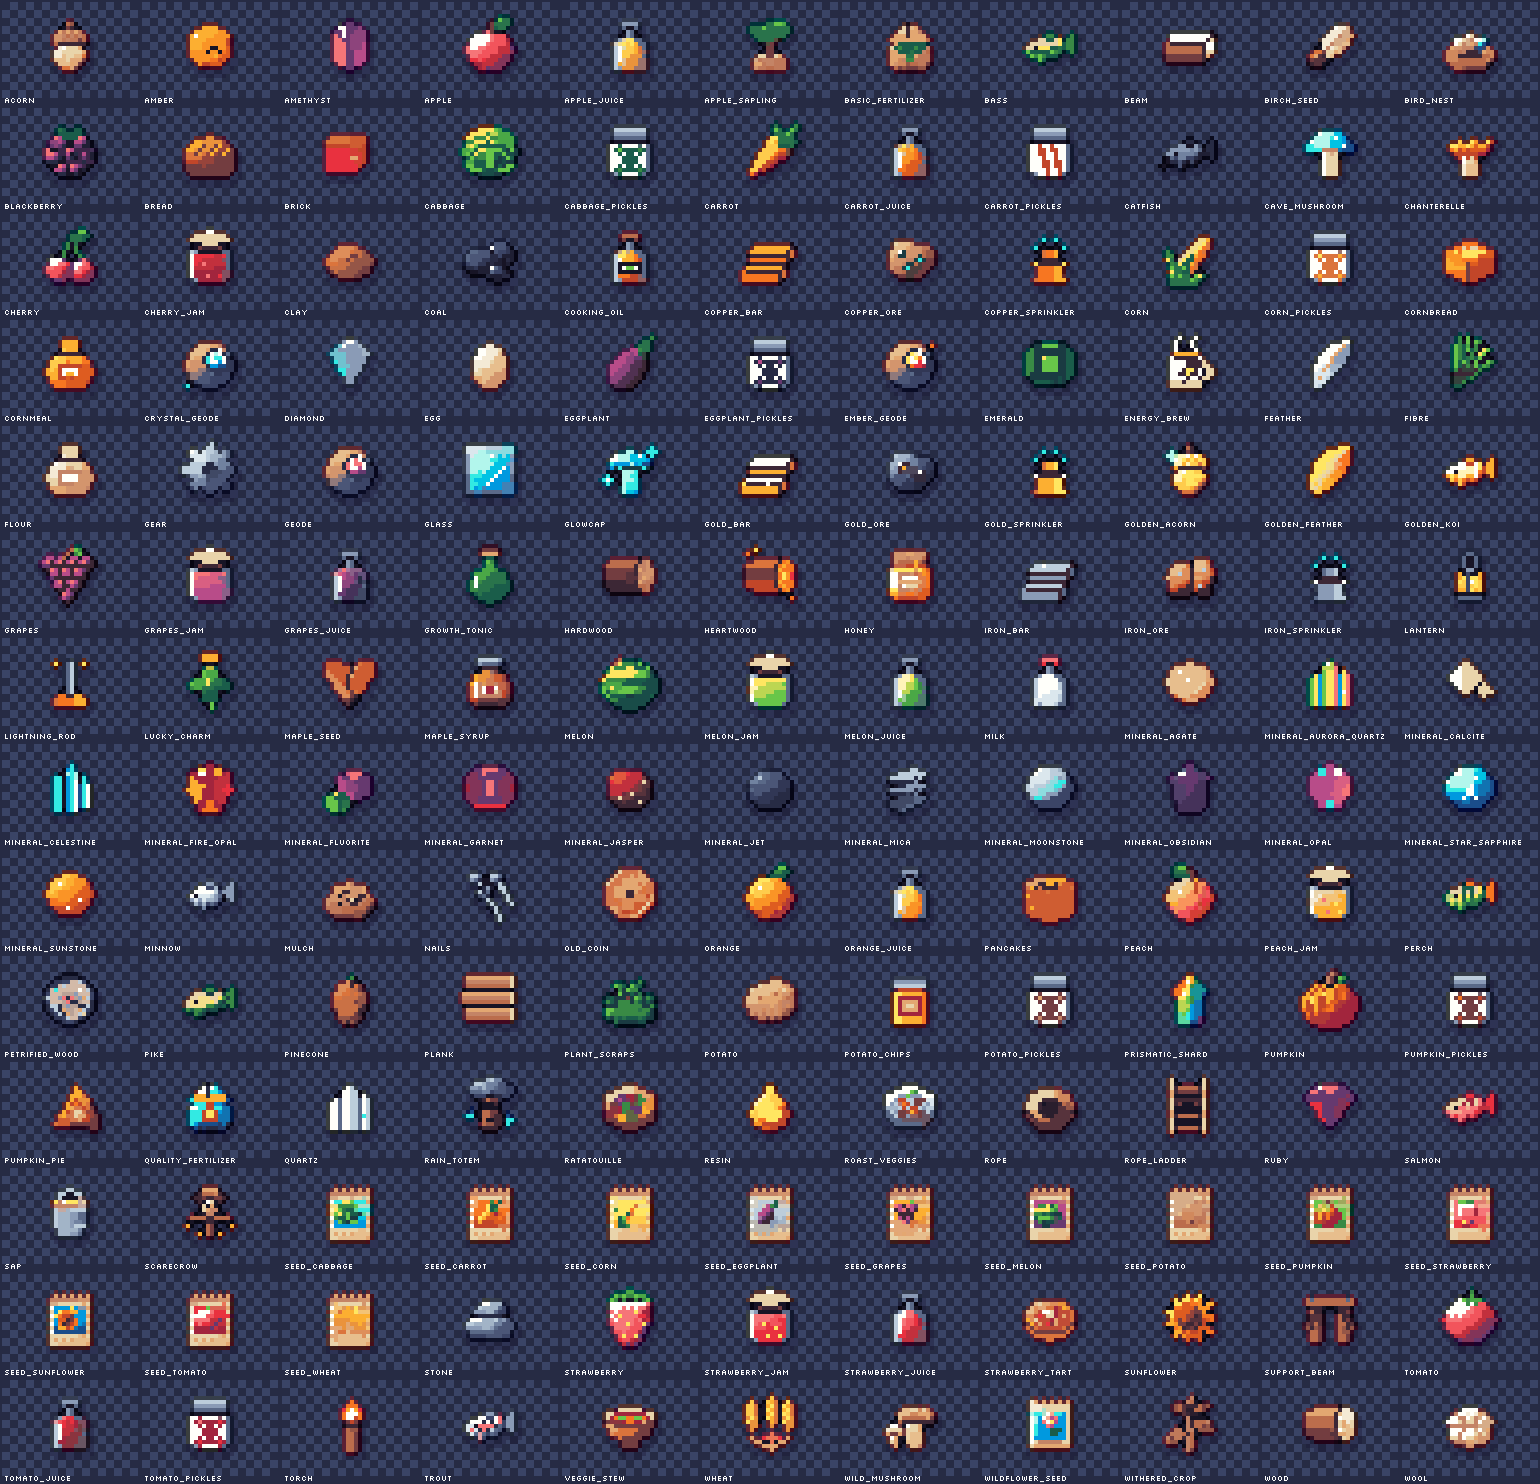
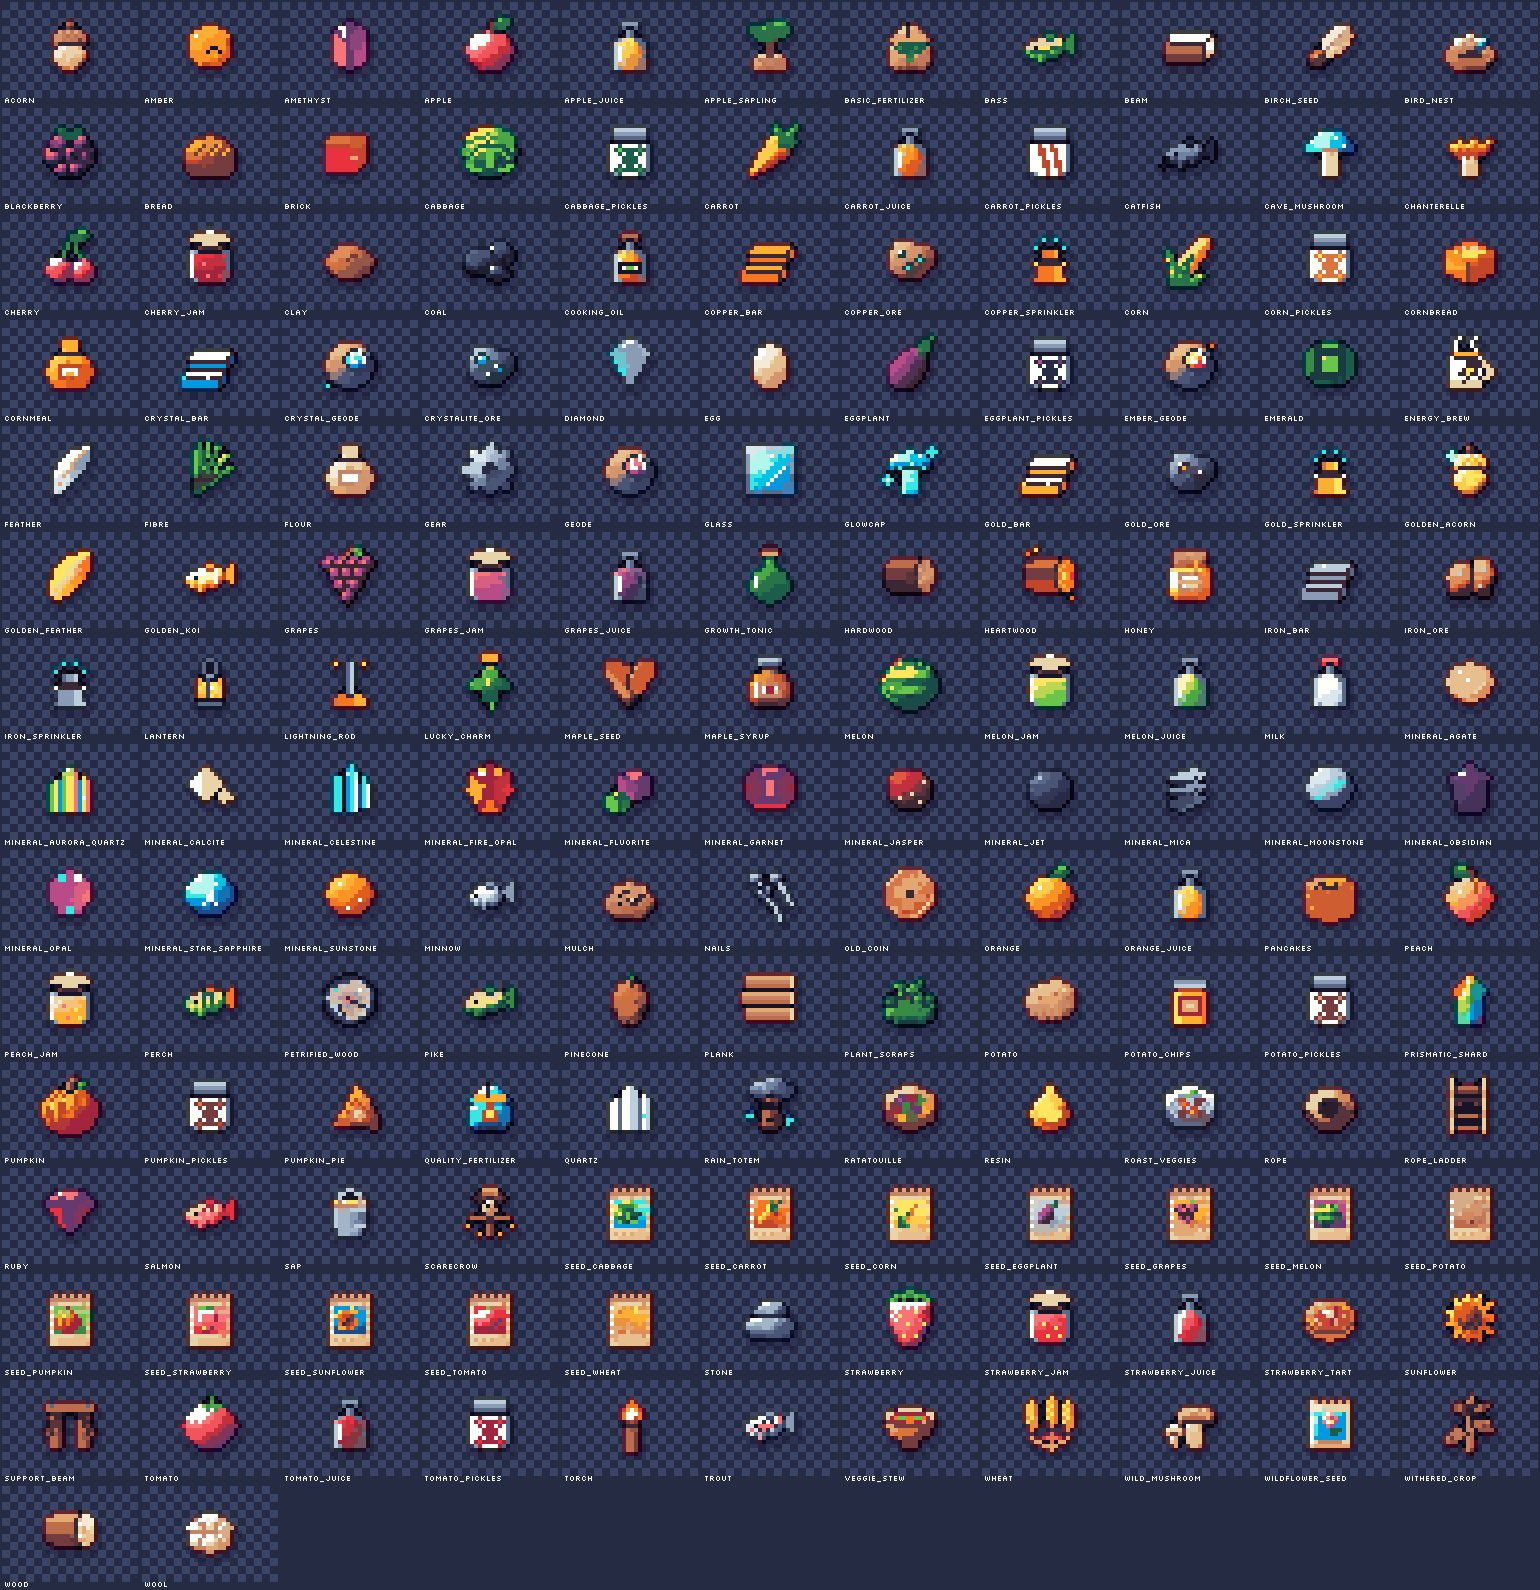
Deep mine: floors 41-80 in four new bands, crystalite, Crystal bars and the Crystal tool tier
Claude-Session: https://claude.ai/code/session_01WzqNnDX2S9CAE6QnGepdXg

diff --git a/farm-game/app/src/main/kotlin/com/ditherfarm/ui/MineScreen.kt b/farm-game/app/src/main/kotlin/com/ditherfarm/ui/MineScreen.kt
@@ -614,30 +614,50 @@ class MineScreen(game: Game) : IsoMapScreen(game, groundSeed = 71), WorldListene
         /** Sandstone quarry cliffs. */
         val QUARRY_ROCK = ramp(0xFF181425, 0xFF3E2731, 0xFF733E39, 0xFFB86F50, 0xFFC28569, 0xFFE4A672)
 
-        /** Per mine band (floors 1-10, 11-20, 21-30, 31-40): wall faces, floor, the cave beyond and glints. */
+        /**
+         * Per mine band (floors 1-10, 11-20, 21-30, 31-40, then the deep mine: crystal caverns,
+         * amethyst depths, emerald grotto and the Golem's obsidian hall): wall faces, floor, the cave
+         * beyond and glints.
+         */
         val BAND_ROCK = listOf(
             ramp(0xFF181425, 0xFF3E2731, 0xFF733E39, 0xFFB86F50, 0xFFC28569, 0xFFE4A672),
             ramp(0xFF181425, 0xFF262B44, 0xFF3A4466, 0xFF5A6988, 0xFF8B9BB4, 0xFFC0CBDC),
             ramp(0xFF181425, 0xFF262B44, 0xFF124E89, 0xFF3A4466, 0xFF5A6988, 0xFF8B9BB4),
             ramp(0xFF181425, 0xFF3E2731, 0xFF68386C, 0xFFA22633, 0xFFBE4A2F, 0xFFD77643),
+            ramp(0xFF181425, 0xFF193C3E, 0xFF262B44, 0xFF3A4466, 0xFF124E89, 0xFF0099DB),
+            ramp(0xFF181425, 0xFF262B44, 0xFF3E2731, 0xFF68386C, 0xFFB55088, 0xFFF6757A),
+            ramp(0xFF181425, 0xFF193C3E, 0xFF265C42, 0xFF3E8948, 0xFF5A6988, 0xFF8B9BB4),
+            ramp(0xFF181425, 0xFF181425, 0xFF262B44, 0xFF3A4466, 0xFF5A6988, 0xFF8B9BB4),
         )
         val BAND_FLOOR = listOf(
             ramp(0xFF3E2731, 0xFF733E39, 0xFF733E39, 0xFFB86F50),
             ramp(0xFF3A4466, 0xFF5A6988, 0xFF8B9BB4, 0xFFC0CBDC),
             ramp(0xFF262B44, 0xFF3A4466, 0xFF124E89, 0xFF5A6988),
             ramp(0xFF181425, 0xFF3E2731, 0xFF68386C, 0xFF733E39),
+            ramp(0xFF193C3E, 0xFF262B44, 0xFF3A4466, 0xFF124E89),
+            ramp(0xFF262B44, 0xFF3E2731, 0xFF68386C, 0xFF5A6988),
+            ramp(0xFF193C3E, 0xFF265C42, 0xFF3A4466, 0xFF3E8948),
+            ramp(0xFF181425, 0xFF262B44, 0xFF3A4466, 0xFF262B44),
         )
         val BAND_CAVE = listOf(
             ramp(0xFF181425, 0xFF3E2731, 0xFF3E2731, 0xFF733E39),
             ramp(0xFF181425, 0xFF262B44, 0xFF3A4466, 0xFF5A6988),
             ramp(0xFF181425, 0xFF262B44, 0xFF262B44, 0xFF124E89),
             ramp(0xFF181425, 0xFF181425, 0xFF3E2731, 0xFF68386C),
+            ramp(0xFF181425, 0xFF193C3E, 0xFF193C3E, 0xFF262B44),
+            ramp(0xFF181425, 0xFF181425, 0xFF262B44, 0xFF68386C),
+            ramp(0xFF181425, 0xFF193C3E, 0xFF193C3E, 0xFF265C42),
+            ramp(0xFF181425, 0xFF181425, 0xFF181425, 0xFF262B44),
         )
         val BAND_ACCENTS = listOf(
             ramp(0xFFF77622, 0xFFE4A672, 0xFFB86F50),
             ramp(0xFFFEAE34, 0xFFC0CBDC, 0xFFFFFFFF),
             ramp(0xFF2CE8F5, 0xFF0099DB, 0xFFFFFFFF),
             ramp(0xFFF77622, 0xFFFEAE34, 0xFFE43B44),
+            ramp(0xFF2CE8F5, 0xFFFFFFFF, 0xFFB55088),
+            ramp(0xFFB55088, 0xFFF6757A, 0xFFFFFFFF),
+            ramp(0xFF63C74D, 0xFFFEE761, 0xFF2CE8F5),
+            ramp(0xFFFEAE34, 0xFFFEE761, 0xFF2CE8F5),
         )
     }
 }

diff --git a/farm-game/app/src/main/kotlin/com/ditherfarm/game/Mine.kt b/farm-game/app/src/main/kotlin/com/ditherfarm/game/Mine.kt
@@ -278,11 +278,14 @@ fun World.gateBlocker(floor: Int): String? {
 fun World.elevatorStops(): List<Int> = listOf(0) + (5..state.mine.deepestStop step 5).toList()
 
 /** Rides the elevator or takes a ladder to [floor] (generates a fresh floor). */
+/** The deepest floor (round 6: 40 more floors, the Crystal Golem at the bottom). */
+const val MINE_BOTTOM = 80
+
 fun World.enterFloor(floor: Int): Boolean {
     val m = state.mine
     if (floor <= 0) { m.floor = 0; events += WorldEvent.FloorEntered(0); return true }
     if (!m.repaired) { events += WorldEvent.Blocked("Repair the mine first"); return false }
-    if (floor > 40) return false
+    if (floor > MINE_BOTTOM) return false
     gateBlocker(floor)?.let { events += WorldEvent.Blocked(it); return false }
     m.floor = floor
     m.visits++
@@ -336,14 +339,14 @@ private fun World.generateFloor(floor: Int) {
         if (empties.isNotEmpty()) m.cells[empties.removeAt(rng.nextInt(empties.size))].node = "glow_mushroom"
     }
     if (rng.chance(0.2) && empties.isNotEmpty()) m.cells[empties.removeAt(rng.nextInt(empties.size))].node = "crate"
-    // Ladder: a breakable rock at least 4 tiles from the entry (no ladder on floor 40).
+    // Ladder: a breakable rock at least 4 tiles from the entry (no ladder on the bottom floor).
     val ec = entry % n; val er = entry / n
     val candidates = m.cells.indices.filter { i ->
         val node = m.cells[i].node ?: return@filter false
         val def = data.mine.nodes[node] ?: return@filter false
         node != "glow_mushroom" && node != "crate" && def.minPick <= pickTier() && abs(i % n - ec) + abs(i / n - er) >= 4
     }
-    m.ladder = if (floor >= 40 || candidates.isEmpty()) -1 else candidates[rng.nextInt(candidates.size)]
+    m.ladder = if (floor >= MINE_BOTTOM || candidates.isEmpty()) -1 else candidates[rng.nextInt(candidates.size)]
     // Cave-in markers from floor 8: a quarter of floors get one or two cracked beams.
     if (floor >= 8 && rng.chance(0.25)) {
         repeat(1 + rng.nextInt(2)) { if (empties.isNotEmpty()) m.markers += empties.removeAt(rng.nextInt(empties.size)) }

diff --git a/farm-game/app/src/test/kotlin/com/ditherfarm/game/DeepMineTest.kt b/farm-game/app/src/test/kotlin/com/ditherfarm/game/DeepMineTest.kt
@@ -1,0 +1,51 @@
+package com.ditherfarm.game
+
+import org.junit.Assert.assertEquals
+import org.junit.Assert.assertFalse
+import org.junit.Assert.assertNotNull
+import org.junit.Assert.assertTrue
+import org.junit.Test
+
+/** The deep mine (round 6): floors 41-80, crystalite and the Crystal tool tier. */
+class DeepMineTest {
+    private val data = WorldTest.loadData()
+
+    private fun deep(level: Int = 30) = World.newGame(data, 4).apply {
+        knowEverything(); gainXp(data.level(level).totalXp - state.xp)
+        state.tools["pickaxe"] = 4; state.mine.repaired = true; events.clear()
+    }
+
+    @Test fun theMineGoesDownToEighty() {
+        val w = deep()
+        assertTrue(w.enterFloor(41))
+        assertEquals(5, data.mine.band(41).band)
+        assertFalse(w.enterFloor(MINE_BOTTOM + 1))
+        assertTrue(w.enterFloor(MINE_BOTTOM))
+        assertEquals(-1, w.state.mine.ladder)
+        w.state.mine.deepestStop = MINE_BOTTOM
+        assertEquals(MINE_BOTTOM, w.elevatorStops().last())
+    }
+
+    @Test fun deepGatesNeedLevelsAndTheCrystalPick() {
+        val w = deep(level = 25)
+        assertEquals("Gate opens at level 26", w.gateBlocker(70))
+        val v = deep(level = 27)
+        v.state.tools["pickaxe"] = 3
+        assertEquals("Needs Crystal pickaxe", v.gateBlocker(70))
+        assertNotNull(v.gateBlocker(80))
+    }
+
+    @Test fun crystaliteOnlyInTheDeep() {
+        val w = deep()
+        fun crystalite(floor: Int) = run { w.enterFloor(floor); w.state.mine.cells.count { it.node == "crystalite_vein" } }
+        assertEquals(0, (31..39).sumOf { crystalite(it) })
+        assertTrue((41..49).sumOf { crystalite(it) } > 0)
+    }
+
+    @Test fun crystalToolsAreTierFour() {
+        assertEquals("Crystal", data.tools.names[4])
+        assertTrue(data.tools.damage[4] > data.tools.damage[3])
+        for (t in listOf("pickaxe", "axe", "hoe")) assertEquals(4, data.recipes.getValue("tool_${t}_4").outputs["@tool:$t"])
+        assertEquals(1, data.recipes.getValue("crystal_bar").outputs["crystal_bar"])
+    }
+}

diff --git a/farm-game/app/src/main/kotlin/com/ditherfarm/game/World.kt b/farm-game/app/src/main/kotlin/com/ditherfarm/game/World.kt
@@ -552,7 +552,9 @@ class World(val data: GameData, val state: GameState) {
         val care = if (p.cared) 1 else 0
         val l = state.level
         val luck = if (lucky) 0.10 else 0.0
-        val gold = min(0.50, 0.01 + 0.004 * l + 0.02 * care + p.fertGold + skill("star_grower") + luck)
+        // The Crystal hoe (round 6) turns up a little more gold.
+        val hoe = if (toolTier(Tool.HOE) >= 4) 0.05 else 0.0
+        val gold = min(0.50, 0.01 + 0.004 * l + 0.02 * care + p.fertGold + skill("star_grower") + luck + hoe)
         val silver = min(0.90 - gold, 0.10 + 0.008 * l + 0.06 * care + p.fertSilver + 1.5 * skill("star_grower"))
         val r = rng().nextDouble()
         return when { r < gold -> Quality.GOLD; r < gold + silver -> Quality.SILVER; else -> Quality.NORMAL }

diff --git a/farm-game/app/src/main/kotlin/com/ditherfarm/ui/Panels.kt b/farm-game/app/src/main/kotlin/com/ditherfarm/ui/Panels.kt
@@ -751,7 +751,7 @@ class Panels(private val game: Game, private val hud: Hud) {
         val stops = world.elevatorStops()
         val perRow = 5
         val rows = (stops.size + perRow - 1) / perRow
-        val next = (stops.last() + 5).takeIf { it <= 40 }
+        val next = (stops.last() + 5).takeIf { it <= com.ditherfarm.game.MINE_BOTTOM }
         val (x, y, pw, ph) = frame("ELEVATOR", 62 + rows * 22, pw = 220).toList()
         if (closeButton(x, y, pw)) return false
         val bw = (pw - 20 - (perRow - 1) * 4) / perRow

diff --git a/farm-game/Tools/ArtGen/pixel/items_mat.py b/farm-game/Tools/ArtGen/pixel/items_mat.py
@@ -505,6 +505,24 @@ def it_gold_bar(c):
     return c
 
 
+CRYSTAL_NUG = ["teal_dd", "blue_d", "blue", "cyan", "white"]
+CRYSTAL_BAR = ["teal_dd", "blue_d", "blue", "cyan", "white"]
+
+
+def it_crystalite_ore(c):
+    fill(c, ROCK, DARK_STONE, ball(6.4, 6.4, 6.0, 5.4, N=4, bias=0.25), sep="slate_d")
+    for u, v, r in ((5.0, 6.0, 1.9), (9.4, 8.2, 1.7), (7.2, 10.0, 1.2)):
+        nugget(c, u, v, r, CRYSTAL_NUG, "teal_dd")
+    return c
+
+
+def it_crystal_bar(c):
+    bars(c, CRYSTAL_BAR, 3.6, (2.8, 1.8), 1.0)
+    dot(c, 5.5, 4.5, "white")
+    dot(c, 6.5, 10.5, "white")
+    return c
+
+
 def it_brick(c):
     top = poly([(1, 5), (3, 2.6), (11, 2.6), (9, 5)])
     front = rect(1, 5, 9, 12)
@@ -942,7 +960,7 @@ ITEMS = {
     "nails": it_nails, "gear": it_gear, "stone": it_stone, "coal": it_coal,
     "copper_ore": it_copper_ore, "iron_ore": it_iron_ore, "gold_ore": it_gold_ore,
     "quartz": it_quartz, "clay": it_clay, "copper_bar": it_copper_bar, "iron_bar": it_iron_bar,
-    "gold_bar": it_gold_bar, "brick": it_brick, "glass": it_glass, "torch": it_torch,
+    "gold_bar": it_gold_bar, "crystalite_ore": it_crystalite_ore, "crystal_bar": it_crystal_bar, "brick": it_brick, "glass": it_glass, "torch": it_torch,
     "lantern": it_lantern, "support_beam": it_support_beam, "rope_ladder": it_rope_ladder,
     "geode": it_geode, "ember_geode": it_ember_geode, "crystal_geode": it_crystal_geode,
     "amethyst": it_amethyst, "emerald": it_emerald, "ruby": it_ruby, "diamond": it_diamond,

diff --git a/farm-game/Tools/ArtGen/pixel/rocks.py b/farm-game/Tools/ArtGen/pixel/rocks.py
@@ -578,6 +578,23 @@ def n_gem(name):
     return build
 
 
+CRYSTALITE = ["ink", "teal_dd", "blue_d", "cyan", "white"]
+
+
+def n_crystalite(v):
+    """Deep-mine crystalite (round 6): a dark slab split by a seam of glowing teal crystal."""
+    r = rand(v, 12)
+    pic = Pic(21, 17)
+    sil = body(pic, 0, 6, 21, 11, 131 + v, STONE_DK)
+    for cx, h, w, lean in ((5, 8, 2.0, -0.7), (9, 12, 2.6, -0.2), (13, 10, 2.4, 0.3), (17, 6, 1.8, 0.8)):
+        shard(pic, cx + r.uniform(-0.5, 0.5), 12, h + r.randint(-1, 1), w, CRYSTALITE, lean)
+    for _ in range(4):
+        x, y = r.randint(2, 18), r.randint(12, 15)
+        if (x, y) in sil:
+            pic.put(x, y, "cyan")
+    return pic
+
+
 def n_boulder(v):
     r = rand(v, 10)
     pic = Pic(26, 18)
@@ -593,6 +610,7 @@ def n_boulder(v):
 NODES = {
     "rock": n_stone, "coal_rock": n_coal, "copper_vein": n_copper, "iron_vein": n_iron, "gold_vein": n_gold,
     "clay_bank": n_clay, "quartz_cluster": n_quartz, "geode_rock": n_geode, "boulder": n_boulder,
+    "crystalite_vein": n_crystalite,
     **{f"gem_node_{g}": n_gem(g) for g in GEMS},
 }
 

diff --git a/farm-game/Docs/DECISIONS.md b/farm-game/Docs/DECISIONS.md
@@ -101,6 +101,7 @@ Answers the owner gave while scoping the game. `GAME_DESIGN.md` must follow thes
 - **Orchard:** a fenced plot by the village (between Fields C and E) for sale at level 10 (1500 coins + 10 planks; its sign shows the level, then the price). Eight spots each take a fruit tree bought as a sapling: cherry (L10, 300), apple (L12, 400), peach (L14, 600), orange (L16, 800). Trees grow for 1-2 days, then fruit at dawn every 2 days (cherry, apple) or 3 days (peach, orange) in three seasons and rest in the fourth; every season has fruit. Fruit waits on the tree (tap to pick, +1 XP each) and goes to orders, the Market, the Fruit Press (apple and orange juice) and the Preserves Jar (cherry and peach jam). A tree can be dug up (no refund). Apples are worth 12 now (was 8).
 - **Farm animals:** from level 7 the pasture (east of the river, now fenced off the Mine road) takes hens (L7, 250, up to 4: an egg a day), sheep (L11, 800, up to 2: wool every other day, shorn until it grows back) and cows (L13, 1200, up to 2: milk a day). Each dawn they eat from the trough (hen 1, sheep 2, cow 3 feed; wheat gives 1 feed, corn 2; the trough holds 60). A fed animal makes its product, which waits on it under a sparkle; tapping collects it and pets it (one heart a day, up to 5). A hungry dawn costs a heart. Hearts set the quality: silver at 3, gold at 5. The Ranch hand (L15: 4000 coins, 20 planks, 5 iron bars) tops up the trough from the Silo and collects everything into storage each morning. Egg 14, milk 30, wool 70; all go into orders. The farm view now reaches four tiles of forest past the map edge, so the pasture and the field corners can be centred.
 - **Fishing:** at level 6 the Workbench makes a fishing rod (6 wood, 4 fibre, 30 coins). Tapping the river casts for 3 energy; the float bobs, then dips: tap within 1.2 s to hook, then tap while the sweeping marker is in the green to land the fish (a miss, a slow tap or three sweeps and it gets away). Eight fish: minnow (any time), perch (spring-fall), trout (spring, fall), bass (summer), salmon (fall), pike (winter), catfish (any season, four times as likely at night and in rain) and the rare golden koi (400 coins). Harder fish have a smaller green zone and a faster marker, and give more XP. Fish sell at the Market and go into orders (not the koi).
+- **Deep mine, part 1 (owner picks: tap-to-fight critters, a break-the-armor Golem, crystal tools, treasure rooms, relics, knocked out on defeat):** the mine goes down to floor 80 in four new bands, each with its own colours: crystal caverns (41-50), amethyst depths (51-60), emerald grotto (61-70) and the Golem's obsidian hall (71-80). Crystalite veins (gold pick) appear from floor 41; the Furnace smelts 4 crystalite into a Crystal bar (level 22). The Blacksmith makes a fourth tool tier, Crystal (5 crystal bars, 3 gold bars, a diamond, 4000 coins, level 24): the pickaxe and axe hit for 10 (gold 6); the Crystal hoe adds 5% gold crops. New gates: 50 (level 22), 60 (24), 70 (26, Crystal pick), 80 (28, Crystal pick).
 
 ## Later (not v1)
 - New areas opened by the village: a lake with fishing, a ranch with animals, an orchard hill, a beach.
